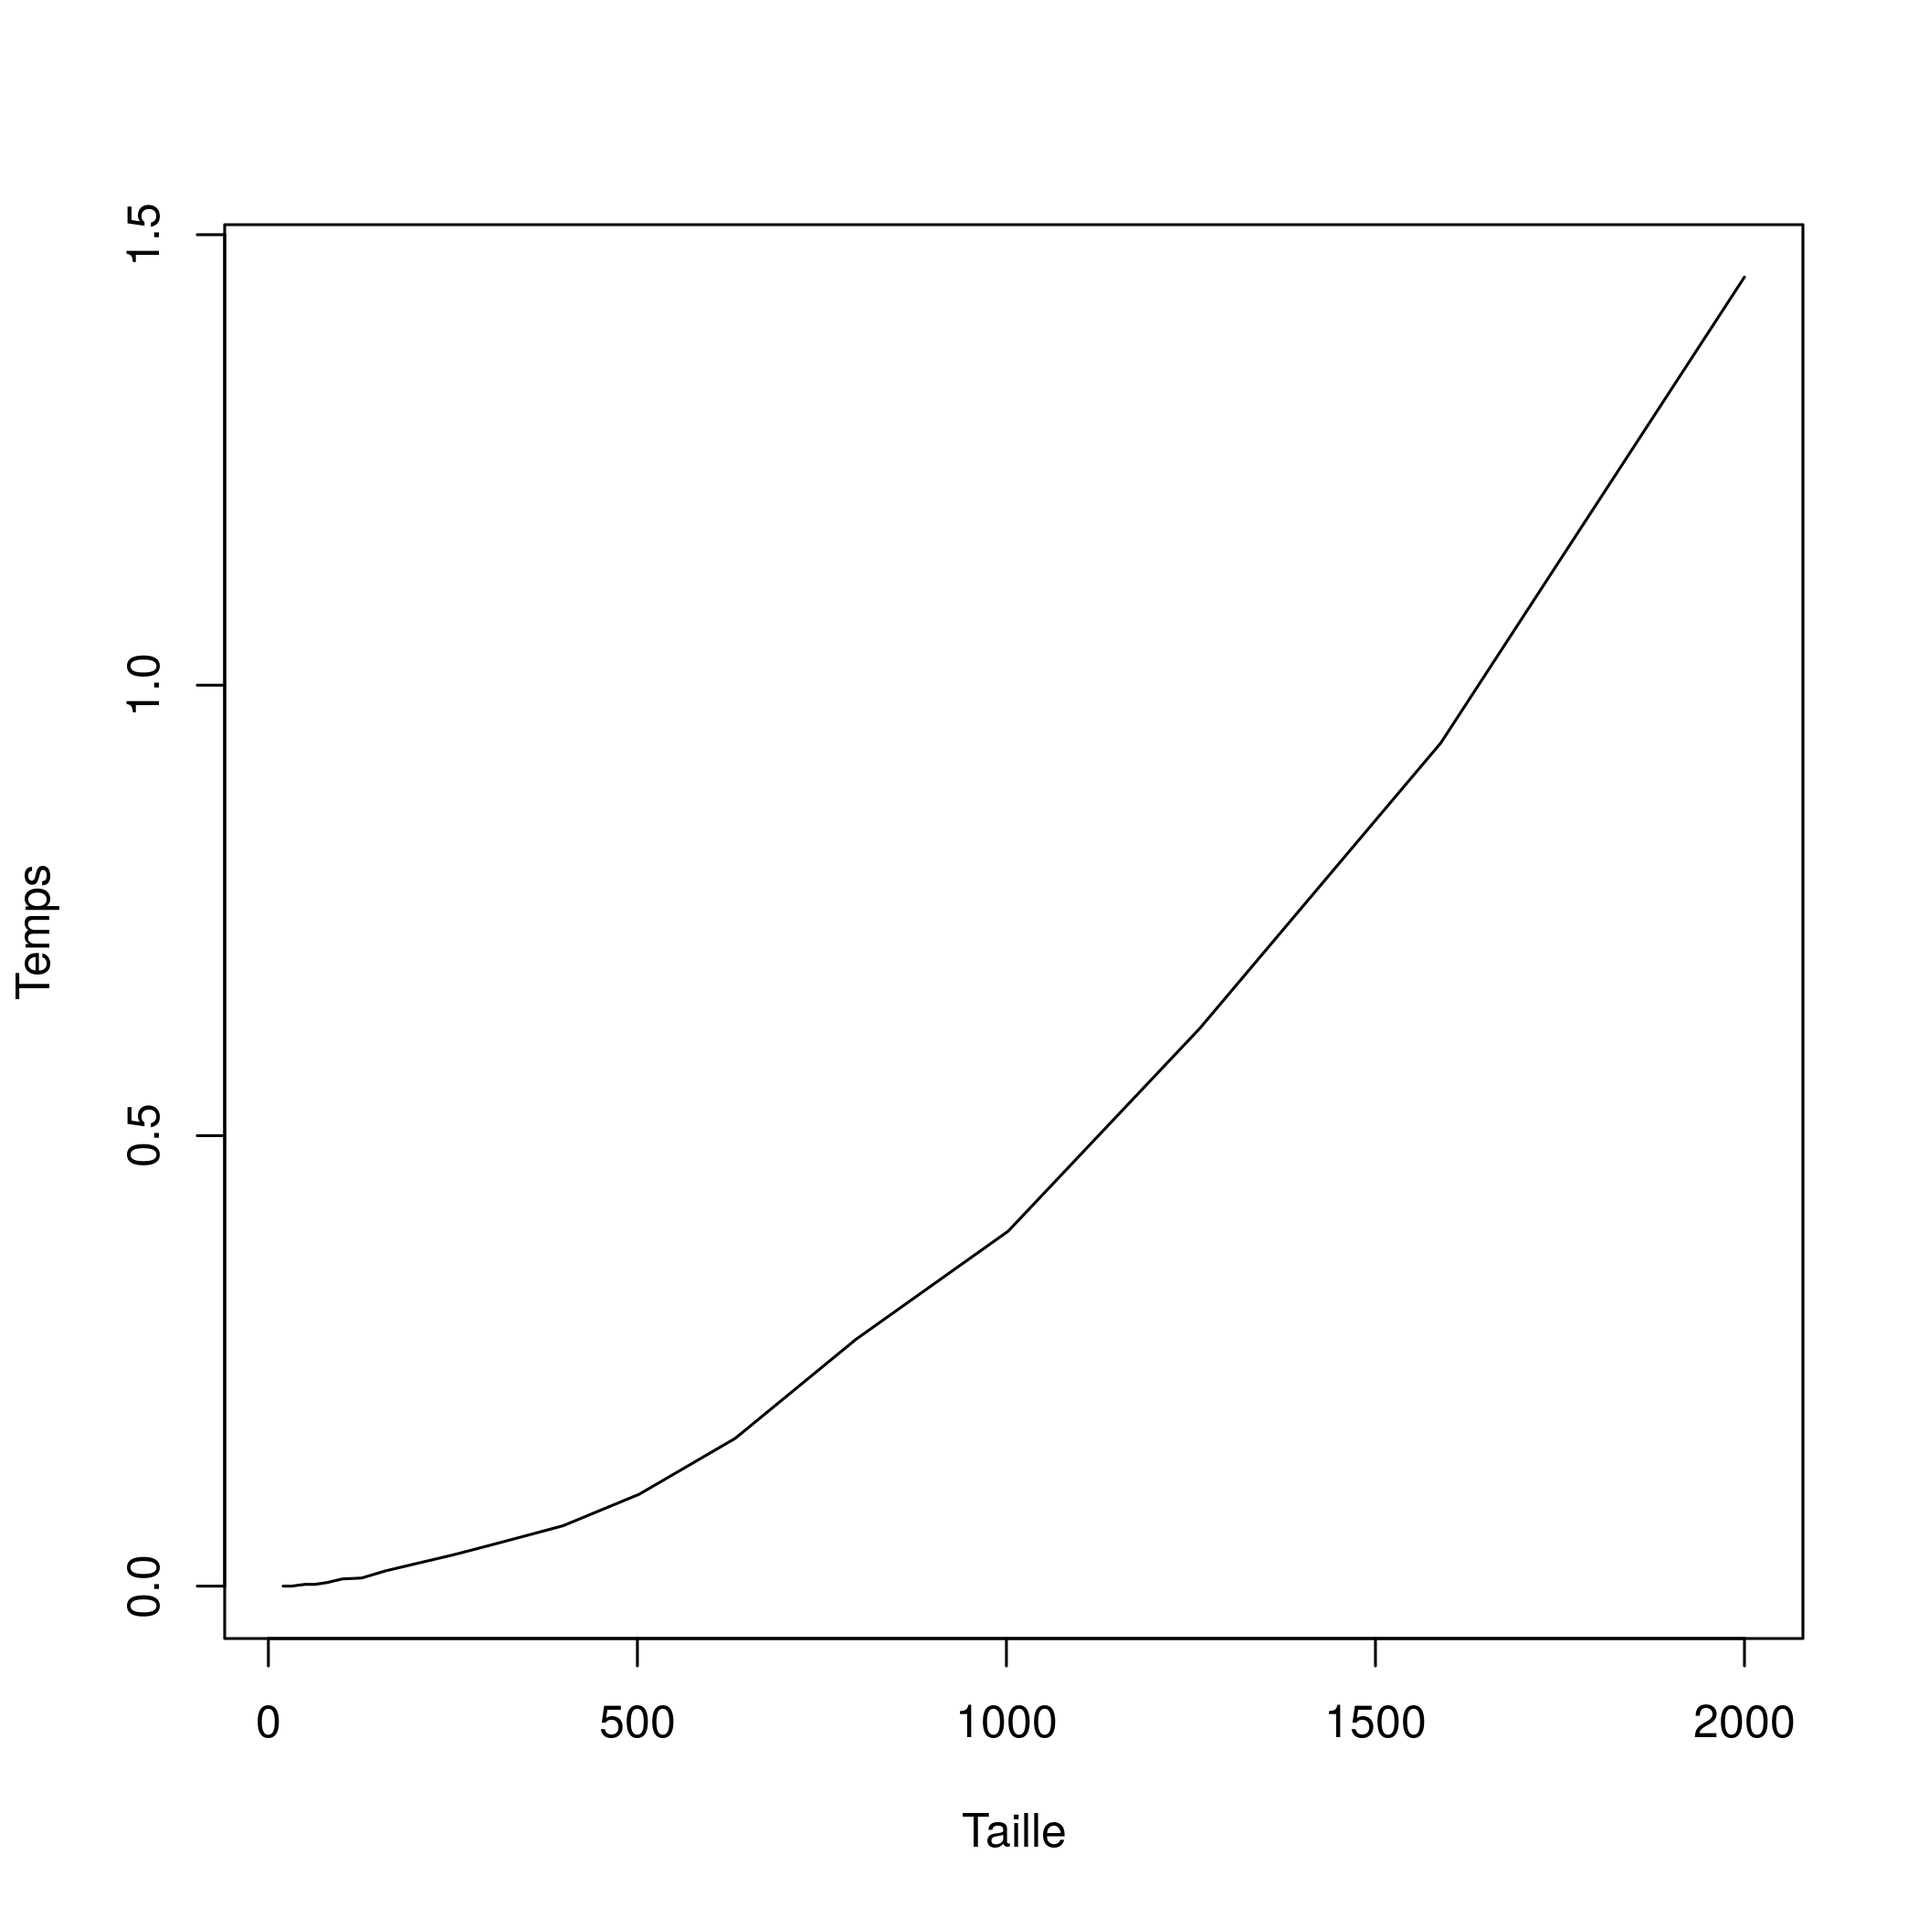
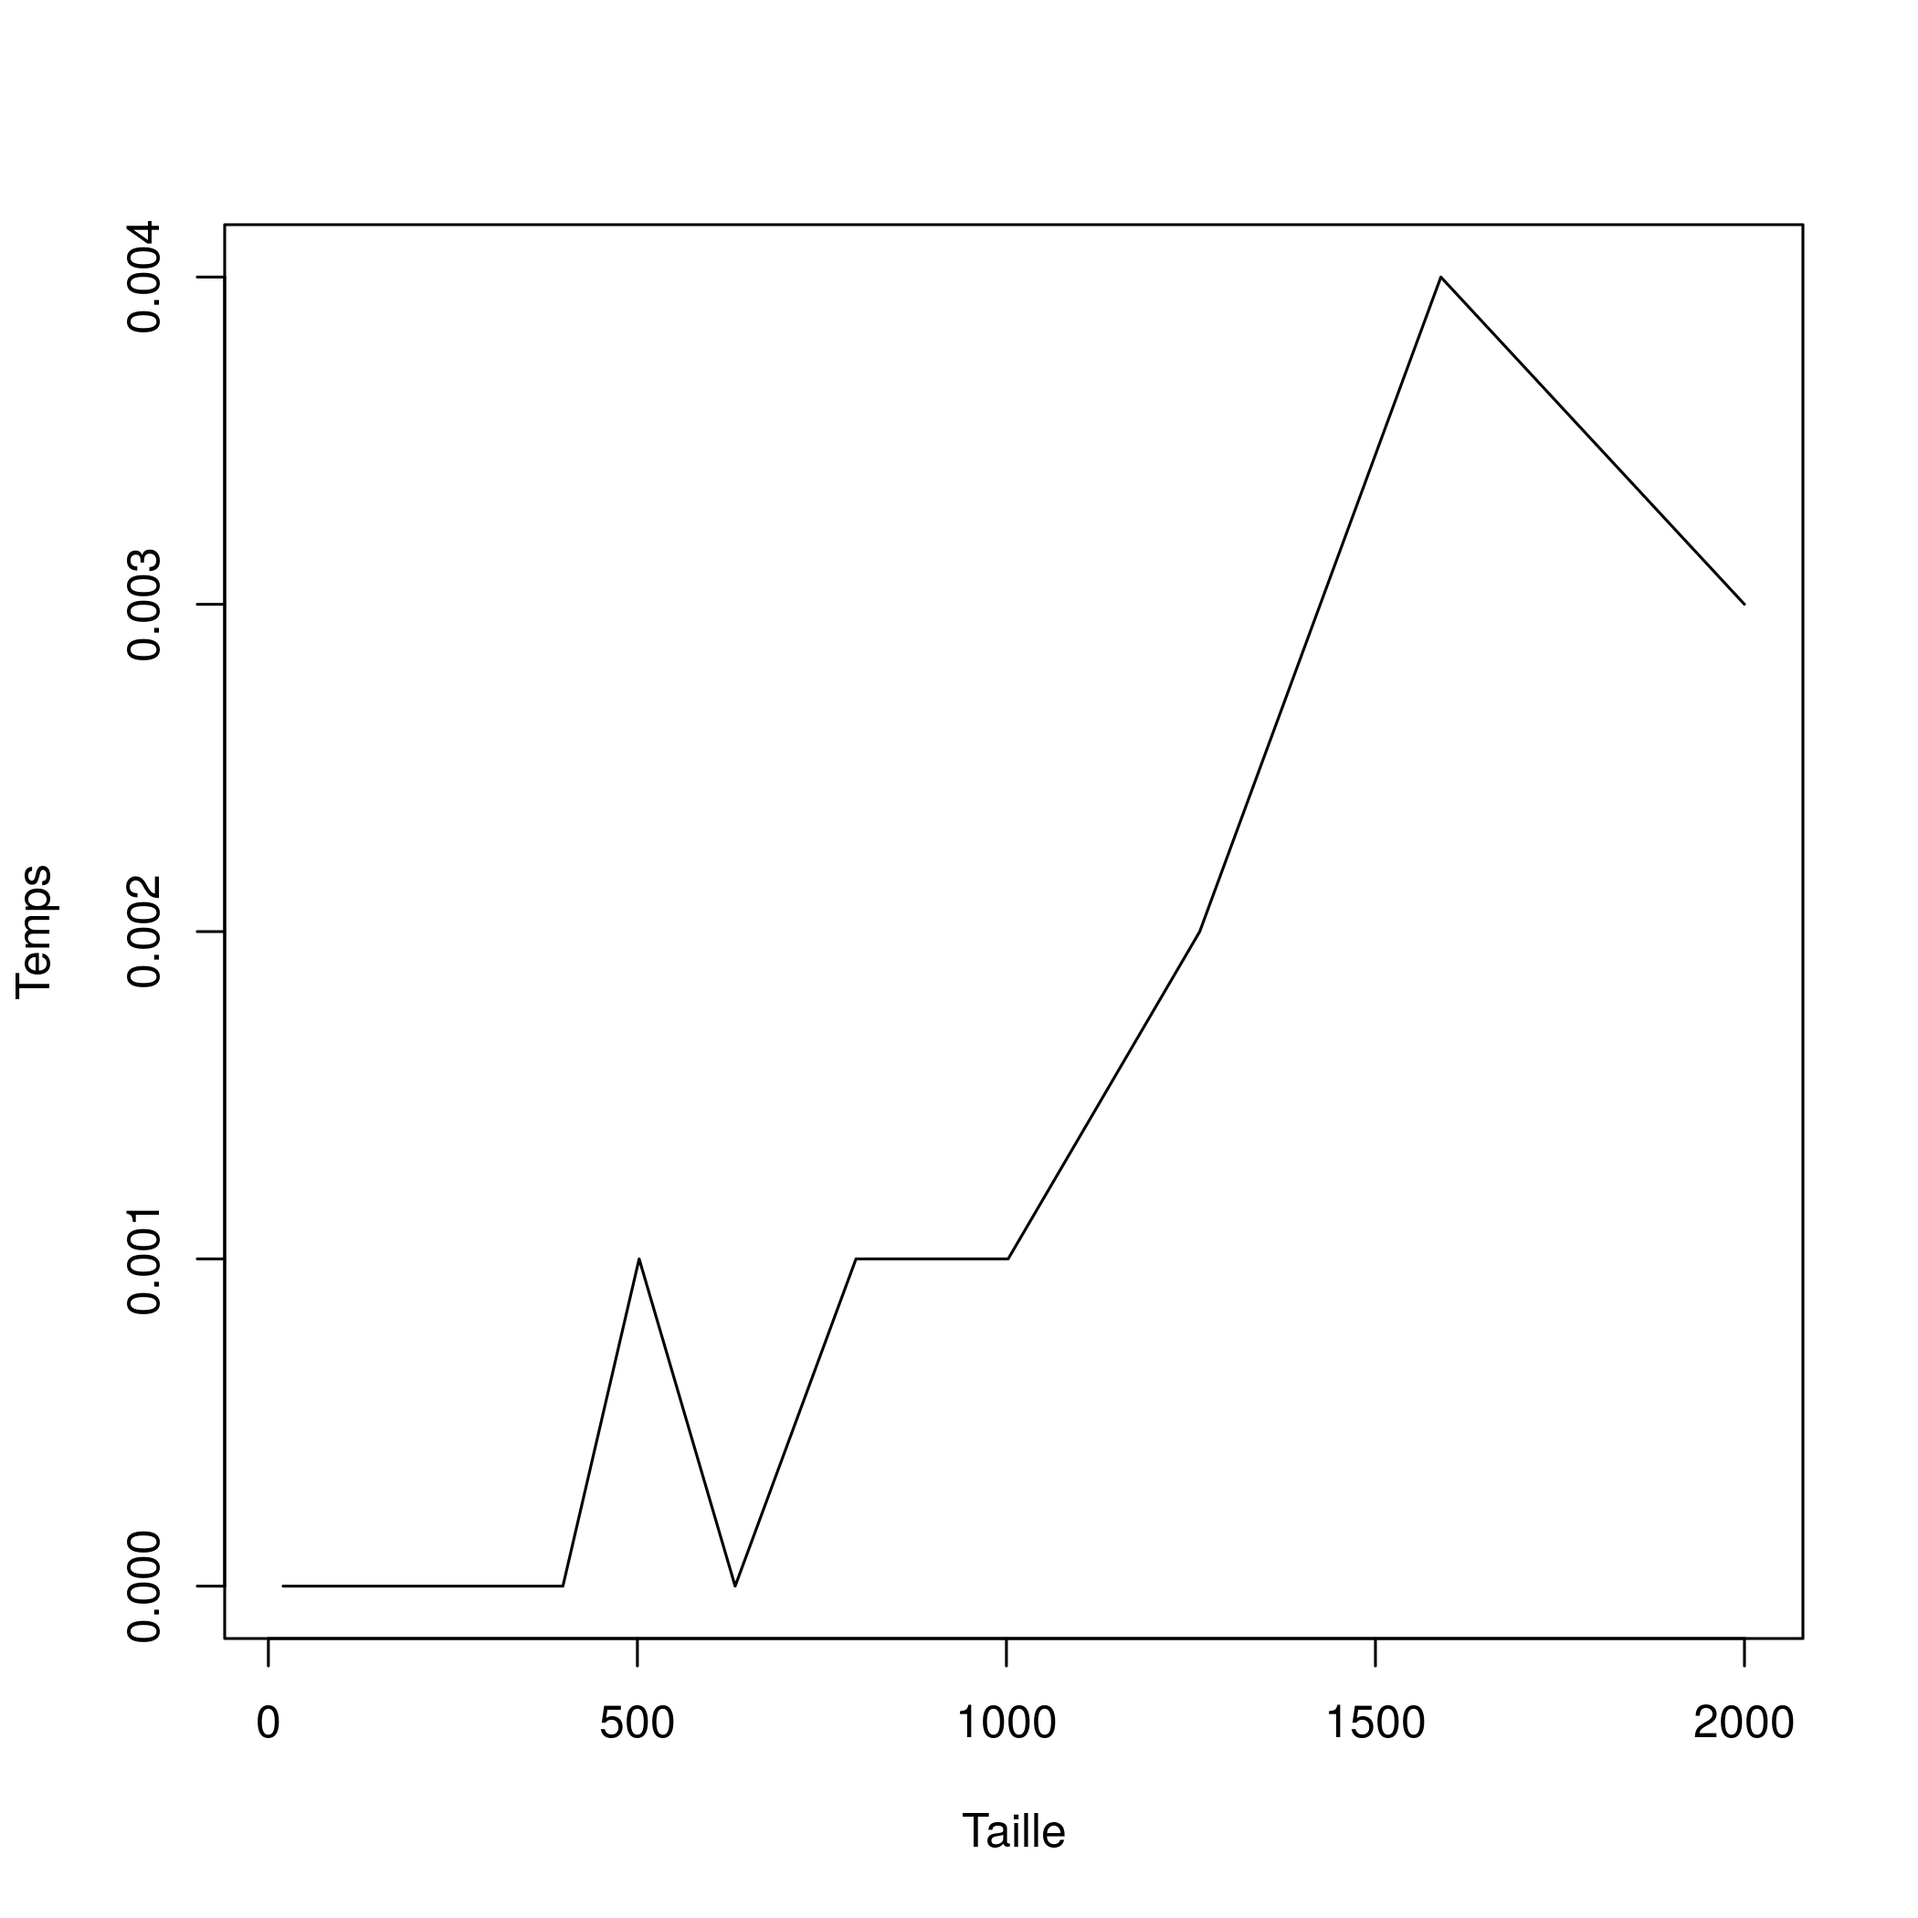
corrections cours 5

diff --git a/cours5/pres/index.html b/cours5/pres/index.html
@@ -70,10 +70,10 @@
     <pre><code class="r">tri &lt;- function(x){
     # Calcul de la dimension du vecteur
     taille = length(x)
-    ordre = FALSE
+    ordre = &quot;OUI&quot;
     # Boucle qui tourne jusqu&#39;à ce que tout soit en ordre
-    while(ordre == FALSE) {
-        ordre = TRUE
+    while(ordre == &quot;OUI&quot;) {
+        ordre = &quot;NON&quot;
         # Boucle qui passe tous les éléments en paire
         for(i in 1:(taille-1)) {
             if(x[i+1] &lt; x[i]) {
@@ -81,7 +81,7 @@
                 x[c(i,i+1)] = x[c(i+1,i)]
                 # Comme un changement a été fait, l&#39;ordre
                 # n&#39;est pas encore garanti
-                ordre = FALSE
+                ordre = &quot;NON&quot;
             }
         }
     }
@@ -230,7 +230,7 @@ tirage = function(n, cartes) {
 tirage(3, cartes)
 </code></pre>
 
-<pre><code>## [1] &quot;4 - pique&quot;  &quot;3 - pique&quot;  &quot;7 - trèfle&quot;
+<pre><code>## [1] &quot;4 - coeur&quot;   &quot;4 - pique&quot;   &quot;roi - pique&quot;
 </code></pre>
 
   </article>
@@ -329,7 +329,7 @@ tirage(3, cartes)
      <pre><code class="r">rbinom(n = 10, size = 1, prob = 0.5)
 </code></pre>
 
-<pre><code>##  [1] 1 1 1 1 0 1 0 1 0 1
+<pre><code>##  [1] 1 0 1 1 1 1 1 1 0 0
 </code></pre>
 
     </div>
@@ -353,12 +353,12 @@ tirage(3, cartes)
 </code></pre>
 
 <pre><code>##      [,1] [,2] [,3]
-## [1,]    1    0    0
-## [2,]    0    1    0
-## [3,]    0    0    0
-## [4,]    0    0    1
+## [1,]    0    0    0
+## [2,]    0    0    0
+## [3,]    1    0    1
+## [4,]    0    0    0
 ## [5,]    0    0    0
-## [6,]    0    0    0
+## [6,]    0    1    0
 </code></pre>
 
     </div>
@@ -557,7 +557,7 @@ res
 
 <ul>
 <li>Le quartier où vous vous trouvez est un plan cartésien parfait (une grille régulière) composé de blocs de 250 m;</li>
-<li>À chaque intersection, votre conducteur ivre avance ou recule en X et en Y avec une probabilité de 0.5;</li>
+<li>À chaque intersection, votre conducteur ivre tourne à gauche ou à droite avec une probabilité de 0.5;</li>
 <li>Il faut environ 30 secondes à votre conducteur pour parcourir la distance entre deux arrêts.</li>
 </ul>
 
@@ -885,7 +885,7 @@ system.time(sort(x))
 </code></pre>
 
 <pre><code>##    user  system elapsed 
-##   0.396   0.000   0.399
+##   0.008   0.000   0.008
 </code></pre>
 
   </article>
@@ -942,14 +942,14 @@ system.time(f1(x))
 </code></pre>
 
 <pre><code>##    user  system elapsed 
-##   0.080   0.004   0.082
+##   0.072   0.004   0.073
 </code></pre>
 
 <pre><code class="r">system.time(f2(x))
 </code></pre>
 
 <pre><code>##    user  system elapsed 
-##   0.052   0.000   0.052
+##   0.048   0.000   0.050
 </code></pre>
 
     </div>
@@ -982,11 +982,11 @@ system.time(f1(X))
 </code></pre>
 
 <pre><code>##    user  system elapsed 
-##   0.000   0.000   0.001 
+##       0       0       0 
 ##    user  system elapsed 
 ##       0       0       0 
 ##    user  system elapsed 
-##   0.528   0.000   0.528
+##   0.492   0.000   0.494
 </code></pre>
 
     </div>

diff --git a/cours5/pres/index.md b/cours5/pres/index.md
@@ -27,10 +27,10 @@ assets      :
 tri <- function(x){
 	# Calcul de la dimension du vecteur
 	taille = length(x)
-	ordre = FALSE
+	ordre = "OUI"
 	# Boucle qui tourne jusqu'à ce que tout soit en ordre
-	while(ordre == FALSE) {
-		ordre = TRUE
+	while(ordre == "OUI") {
+		ordre = "NON"
 		# Boucle qui passe tous les éléments en paire
 		for(i in 1:(taille-1)) {
 			if(x[i+1] < x[i]) {
@@ -38,7 +38,7 @@ tri <- function(x){
 				x[c(i,i+1)] = x[c(i+1,i)]
 				# Comme un changement a été fait, l'ordre
 				# n'est pas encore garanti
-				ordre = FALSE
+				ordre = "NON"
 			}
 		}
 	}
@@ -121,7 +121,7 @@ tirage(3, cartes)
 ```
 
 ```
-## [1] "4 - pique"  "3 - pique"  "7 - trèfle"
+## [1] "4 - coeur"   "4 - pique"   "roi - pique"
 ```
 
 ---
@@ -193,7 +193,7 @@ rbinom(n = 10, size = 1, prob = 0.5)
 ```
 
 ```
-##  [1] 1 1 1 1 0 1 0 1 0 1
+##  [1] 1 0 1 1 1 1 1 1 0 0
 ```
 
 --- &twocol
@@ -216,12 +216,12 @@ rmultinom(n = 3, size = 1, prob = rep(1/6, 6))
 
 ```
 ##      [,1] [,2] [,3]
-## [1,]    1    0    0
-## [2,]    0    1    0
-## [3,]    0    0    0
-## [4,]    0    0    1
+## [1,]    0    0    0
+## [2,]    0    0    0
+## [3,]    1    0    1
+## [4,]    0    0    0
 ## [5,]    0    0    0
-## [6,]    0    0    0
+## [6,]    0    1    0
 ```
 
 --- &twocolw w1:40% w2:60%
@@ -353,7 +353,7 @@ Si $U$ est une variable aléatoire distribuée selon la loi uniforme entre 0 et 
 Vous observez une personne ivre à la sortie d'un bar prendre sa voiture. Vous appelez la police pour l'avertir. Estimez la distance parcourue par ce conducteur en 10 minutes, sachant que :
 
 - Le quartier où vous vous trouvez est un plan cartésien parfait (une grille régulière) composé de blocs de 250 m;
-- À chaque intersection, votre conducteur ivre avance ou recule en X et en Y avec une probabilité de 0.5;
+- À chaque intersection, votre conducteur ivre tourne à gauche ou à droite avec une probabilité de 0.5;
 - Il faut environ 30 secondes à votre conducteur pour parcourir la distance entre deux arrêts.
 
 Calculez la distance parcourue en X et en Y, puis reprenez votre calcul une centaine de fois pour estimée la distance moyenne parcourue (à vol d'oiseau).
@@ -601,7 +601,7 @@ system.time(tri(x))
 
 ```
 ##    user  system elapsed 
-##   0.396   0.000   0.399
+##   0.008   0.000   0.008
 ```
 
 ---&twocol
@@ -658,7 +658,7 @@ system.time(f1(x))
 
 ```
 ##    user  system elapsed 
-##   0.080   0.004   0.082
+##   0.072   0.004   0.073
 ```
 
 ```r
@@ -667,7 +667,7 @@ system.time(f2(x))
 
 ```
 ##    user  system elapsed 
-##   0.052   0.000   0.052
+##   0.048   0.000   0.050
 ```
 
 ---&twocol
@@ -701,11 +701,11 @@ system.time(f1(X))
 
 ```
 ##    user  system elapsed 
-##   0.000   0.000   0.001 
+##       0       0       0 
 ##    user  system elapsed 
 ##       0       0       0 
 ##    user  system elapsed 
-##   0.528   0.000   0.528
+##   0.492   0.000   0.494
 ```
 
 ---.transition
